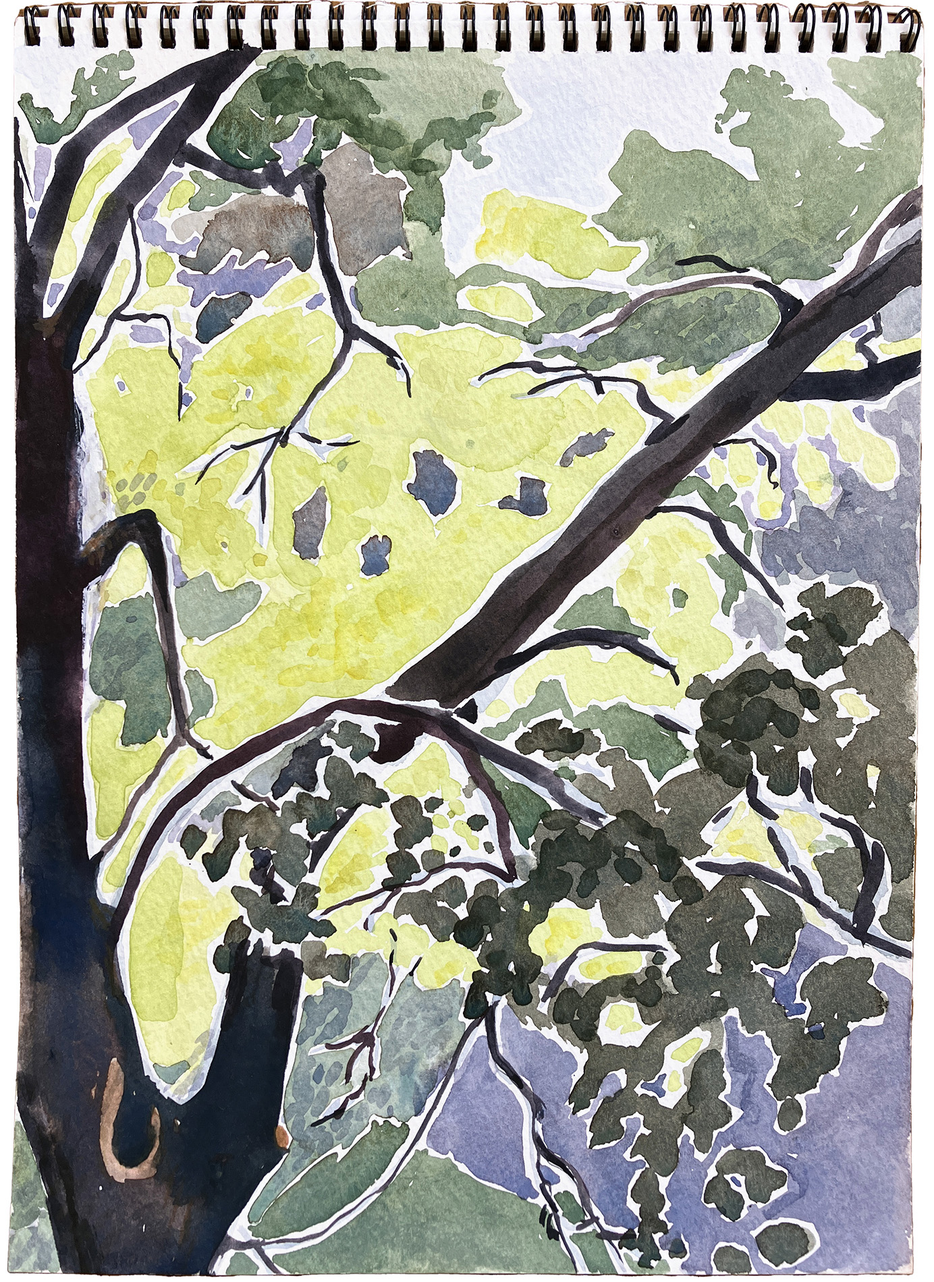
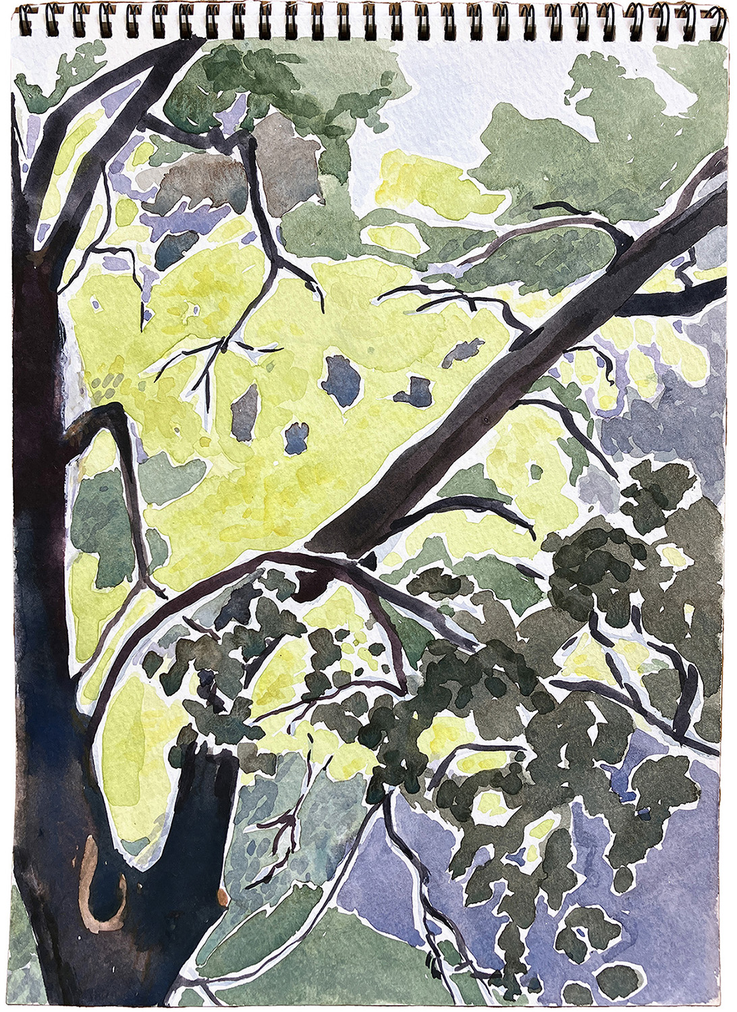
smaller imgs, new wc

diff --git a/_artwork/watercolor/2022-08-04.html b/_artwork/watercolor/2022-08-04.html
@@ -1,0 +1,9 @@
+---
+layout: art_single
+src: /img/nyc/2022-07-22.jpg
+title: Two trees, 2022
+medium: watercolor on paper
+dimensions: 12x9"
+status: $250 unframed
+tags: ['watercolor']
+---
